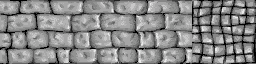
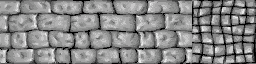
lighting and texture improvements

Changed region(s): [[0.0, 0.0, 0.5, 1.0]]

diff --git a/index.html b/index.html
@@ -78,12 +78,14 @@
       uniform highp mat4 uMVMatrix;
       uniform highp mat4 uPMatrix;
 
-      varying highp vec2 vTextureCoord;
+      varying highp vec2 vTextureCoord, vTransformedNormal;
       varying highp vec3 vLighting;
+      varying highp float fogFactor, fogDistance, surfaceCosine;
+
 
       void main(void) {
-        gl_Position = uPMatrix * uMVMatrix * vec4(aVertexPosition+aWorldPosition, 1.0);
-        vTextureCoord = aTextureCoord;
+        vec4 vVertex = uMVMatrix * vec4(aVertexPosition+aWorldPosition, 1.0);
+        gl_Position = uPMatrix * vVertex;
 
         // Apply lighting effect
 
@@ -91,11 +93,27 @@
         highp vec3 directionalLightColor = vec3(0.5, 0.5, 0.75);
         highp vec3 directionalVector = vec3(0.85, 0.8, 0.75);
 
-        highp vec4 transformedNormal = uNormalMatrix * vec4(aVertexNormal, 1.0);
+        vec4 transformedNormal = uNormalMatrix * vec4(aVertexNormal, 1.0);
 
         //highp float directional = max(dot(transformedNormal.xyz, directionalVector), 0.0);
         highp float directional = max(dot(transformedNormal.xyz, directionalVector), 0.0);
         vLighting = ambientLight + (directionalLightColor * directional);
+        fogDistance = length(vVertex);
+        fogFactor = exp2( -.25 * .25 * fogDistance*fogDistance );
+
+        surfaceCosine = abs(dot(transformedNormal.xyz, normalize(vVertex).xyz));
+        vec4 vCenter = uMVMatrix * vec4(aWorldPosition, 1.0);
+        float centerCosine = abs(dot(normalize(vCenter).xyz, transformedNormal.xyz));
+
+        highp vec3 a = cross( normalize(vCenter).xyz, transformedNormal.xyz);
+        //vTextureCoord = aTextureCoord;
+        vTextureCoord.x = aTextureCoord.x*0.25 + 0.25;
+        if (transformedNormal.y == 0. && centerCosine < 0.85) {
+            vTextureCoord.x = vTextureCoord.x-sign(a.y)*0.25;
+        }
+        //gl_TexCoord[0].x = gl_MultiTexCoord0.x;
+        vTextureCoord.y = aTextureCoord.y;
+        //surfaceCosine = abs(surfaceCosine);
       }
     </script>
 
@@ -106,13 +124,13 @@
 
       varying highp vec2 vTextureCoord;
       varying highp vec3 vLighting;
-
+      varying float fogFactor, surfaceCosine;
       uniform sampler2D uSampler;
 
       void main(void) {
         vec4 texelColor = texture2D(uSampler, vec2(vTextureCoord.s, vTextureCoord.t));
 
-        gl_FragColor = vec4(texelColor.rgb * vLighting, texelColor.a);
+        gl_FragColor = vec4(texelColor.rgb * surfaceCosine * fogFactor, texelColor.a);
       }
     </script>
   </head>
@@ -121,5 +139,6 @@
     <canvas id="glcanvas" width="500" height="500">
       Your browser doesn't appear to support the HTML5 <code>&lt;canvas&gt;</code> element.
     </canvas>
+    <p>FPS:<span id="fps">0</span>
 
 </body></html>

diff --git a/webdung.js b/webdung.js
@@ -81,10 +81,19 @@ function start() {
         document.onkeydown = handleKeyDown;
         document.onkeyup = handleKeyUp;
 
-        //setInterval(drawScene, 15);
+
+        var lastLoop = new Date();
+
         (function animloop(){
-            drawScene();
-            requestAnimFrame(animloop, canvas);
+            var thisLoop = new Date();
+            var diff = thisLoop - lastLoop;
+            //var fps = 1000 / (thisLoop - lastLoop);
+            //console.log(diff);
+            setTimeout(function() {
+                drawScene();
+                requestAnimFrame(animloop, canvas);
+            }, 33-diff);  // I guess this doesn't really work, but it limits the cpu usage a bit
+            lastLoop = new Date();
         })();
     }
 }
@@ -465,33 +474,33 @@ function initCubeBuffers() {
                 textureCoordinates = textureCoordinates.concat( [
                     // Front
                     0.0,  0.0,
-                        .25,  0.0,
-                        .25,  1.0,
+                        1.0,  0.0,
+                        1.0,  1.0,
                     0.0,  1.0,
                     // Back
-                        .25,  0.0,
-                        .25,  1.0,
+                        1.0,  0.0,
+                        1.0,  1.0,
                     0.0,  1.0,
                     0.0,  0.0,
                     // Top
                     0.0,  0.0,
-                        .25,  0.0,
-                        .25,  1.0,
+                        1.0,  0.0,
+                        1.0,  1.0,
                     0.0,  1.0,
                     // Bottom
                     0.0,  0.0,
-                        .25,  0.0,
-                        .25,  1.0,
+                        1.0,  0.0,
+                        1.0,  1.0,
                     0.0,  1.0,
                     // Right
-                        .25,  0.0,
-                        .25,  1.0,
+                        1.0,  0.0,
+                        1.0,  1.0,
                     0.0,  1.0,
                     0.0,  0.0,
                     // Left
                     0.0,  0.0,
-                        .25,  0.0,
-                        .25,  1.0,
+                        1.0,  0.0,
+                        1.0,  1.0,
                     0.0,  1.0
                 ] );
 
